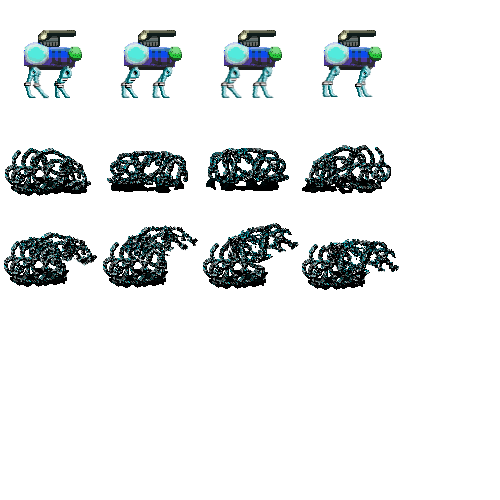
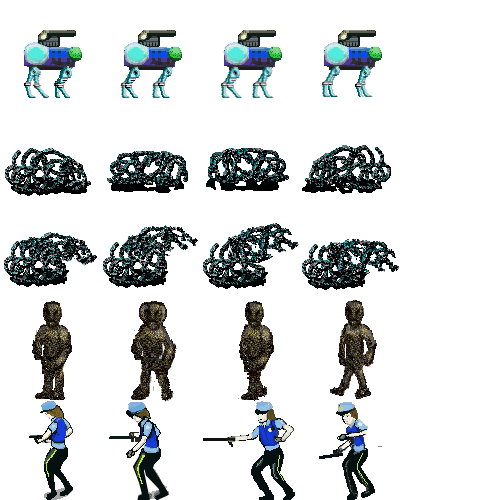
enemy and fire ball animations

diff --git a/entityImageHelper.go b/entityImageHelper.go
@@ -1,10 +1,192 @@
 package main
 
-import "github.com/hajimehoshi/ebiten/v2"
+import (
+	"fmt"
+	"log"
+	"path"
+
+	"github.com/hajimehoshi/ebiten/v2"
+	"github.com/hajimehoshi/ebiten/v2/ebitenutil"
+)
 
 type EntityManagerImageCollections struct {
-	jackieImages []*ebiten.Image
-	dogImages    []*ebiten.Image
-	blobImages   []*ebiten.Image
-	golemImages  []*ebiten.Image
+	jackieImages  []*ebiten.Image
+	jackieImagesA []*ebiten.Image
+	jackieImagesS []*ebiten.Image
+	dogImages     []*ebiten.Image
+	dogImagesA    []*ebiten.Image
+	blobImages    []*ebiten.Image
+	blobImagesA   []*ebiten.Image
+	golemImages   []*ebiten.Image
+	golemImagesA  []*ebiten.Image
+}
+
+func (em *EntityManager) initEntityImages() error {
+	var err error
+	// jackie
+	em.jackieImages, err = getForwardAndReverseSpriteRowFromFile(IMAGES_JACKIE, 1)
+	em.jackieImagesA, err = getForwardAndReverseSpriteRowFromFile(IMAGES_JACKIE, 2)
+	em.jackieImagesS = grabImagesRowToListFromFilename(IMAGES_JACKIE, 100, 3, 2)
+	fmt.Println("Jackie images", len(em.jackieImages))
+	// robo dog
+	em.dogImages, err = getForwardAndReverseSpriteRowFromFile(IMAGES_MONSTER, 0)
+	em.dogImagesA, err = getForwardAndReverseSpriteRowFromFile(IMAGES_MONSTER, 0)
+
+	// worm blob
+
+	em.blobImages, err = getForwardAndReverseSpriteRowFromFile(IMAGES_MONSTER, 1)
+	em.blobImagesA, err = getForwardAndReverseSpriteRowFromFile(IMAGES_MONSTER, 2)
+
+	// worm blob
+
+	em.golemImages, err = getForwardAndReverseSpriteRowFromFile(IMAGES_MONSTER, 3)
+	em.golemImagesA, err = getForwardAndReverseSpriteRowFromFile(IMAGES_MONSTER, 3)
+
+	return err
+
+}
+
+func (em *EntityManager) updateFrame_0(ent *Entity) {
+	rightIndexStart := 1 + EN_FRAME_MAX_VAL
+	rightIndexEnd := 1 + EN_FRAME_MAX_VAL*2
+
+	// low values left
+	if ent.direction == 'l' && ent.frame >= EN_FRAME_MAX_VAL {
+		ent.frame = 0
+	} else if ent.direction == 'l' && ent.frame < EN_FRAME_MAX_VAL {
+		ent.frame++
+	} else if ent.direction == 'r' && ent.frame >= rightIndexEnd {
+		ent.frame = rightIndexStart
+	} else if ent.direction == 'r' && ent.frame < rightIndexEnd {
+		ent.frame++
+	}
+
+}
+
+func (em *EntityManager) updateFrame(ent *Entity) {
+
+	// left: 0 1 2 3
+	// right: 4 5 6 7
+
+	var leftRune, rightRune rune
+
+	if ent.kind != 0 {
+		leftRune = 'l'
+		rightRune = 'r'
+	} else {
+		leftRune = 'r'
+		rightRune = 'l'
+	}
+
+	if ent.direction == leftRune {
+		if ent.frame > 2 || ent.velX == 0 {
+			ent.frame = 0
+		} else {
+			ent.frame++
+		}
+	} else if ent.direction == rightRune {
+		if ent.frame > 6 || ent.velX == 0 {
+			ent.frame = 4
+		} else {
+			ent.frame++
+		}
+	} else {
+		//fmt.Println("Ent unknown condition")
+	}
+
+}
+
+func getForwardAndReverseSpriteRowFromFile(filename string, gridStartRow int) ([]*ebiten.Image, error) {
+	tempImagesList := []*ebiten.Image{}
+	imageDir := path.Join(subdir, filename)
+	rawImage, _, err := ebitenutil.NewImageFromFile(imageDir)
+	startYInPixels := gridStartRow * EN_SPRITE_SIZE
+	tempImagesList = append(tempImagesList, grabImagesRowToList(rawImage, EN_SPRITE_SIZE, startYInPixels, EN_SPRITES_PER_ROW)...)
+	//reverse
+	tempImagesList = append(tempImagesList, copyAndReverseListOfImages(tempImagesList)...)
+
+	return tempImagesList, err
+}
+
+func copyAndReverseListOfImages(inputList []*ebiten.Image) []*ebiten.Image {
+	outputList := []*ebiten.Image{}
+	for _, v := range inputList {
+		tempImage := FlipHorizontal(v)
+		outputList = append(outputList, tempImage)
+	}
+	return outputList
+}
+
+func grabImagesRowToList(inputImage *ebiten.Image, imageSize, startYInPixels, amountX int) []*ebiten.Image {
+
+	outputList := []*ebiten.Image{}
+	for i := range amountX {
+		x := i * imageSize
+		y := startYInPixels
+		tempImage := getSubImage(inputImage, x, y, imageSize, imageSize)
+		outputList = append(outputList, tempImage)
+	}
+	return outputList
+}
+
+func grabImagesRowToListFromFilename(filename string, imageSize, gridY, amountX int) []*ebiten.Image {
+	imageDir := path.Join(subdir, filename)
+	rawImage, _, err := ebitenutil.NewImageFromFile(imageDir)
+	outputList := []*ebiten.Image{}
+	for i := range amountX - 1 {
+		x := i * imageSize
+		y := gridY * imageSize
+		tempImage := getSubImage(rawImage, x, y, imageSize, imageSize)
+		outputList = append(outputList, tempImage)
+	}
+	if err != nil {
+		log.Fatal(err)
+	}
+	return outputList
+}
+
+func (em *EntityManager) selectImage(entityKind, state, frame int) *ebiten.Image {
+	var imageList []*ebiten.Image
+	switch entityKind {
+
+	case 0, 4:
+		switch state {
+		case 0:
+			imageList = em.jackieImages
+		case 1:
+			imageList = em.jackieImagesA
+		case 2:
+			imageList = em.jackieImagesS
+
+		}
+	case 1:
+		switch state {
+		case 0:
+			imageList = em.dogImages
+		case 1:
+			imageList = em.dogImagesA
+
+		}
+
+	case 2:
+		switch state {
+		case 0:
+			imageList = em.blobImages
+		case 1:
+			imageList = em.blobImagesA
+
+		}
+	case 3:
+		switch state {
+		case 0:
+			imageList = em.golemImages
+		case 1:
+			imageList = em.golemImagesA
+
+		}
+
+	}
+	//fmt.Println(frame)
+	return imageList[frame]
+
 }

diff --git a/entity.go b/entity.go
@@ -11,35 +11,52 @@ import (
 )
 
 /*
+kinds:
 0 = Jackie (non enemy)
 1 = robodog
 2 = worm blob
 3 = ice golem
 4 = evil jackie
+
+states:
+0 = walk
+1 = attack
+2 = stand
+
+sprite index:
+0 - 3 = left
+3 - 7 = right
 */
 const (
 	FM_MAX_ENTITY_ROOM          = 10
 	IMAGES_IDLE_SHEET           = "jackieD1.png"
 	IMAGES_WALK_SHEET           = "jackieD1.png"
 	IMAGES_ATTACK_SHEET         = "jackieD1.png"
+	IMAGES_JACKIE               = "jackieRS.png"
+	IMAGES_MONSTER              = "enemyWog.png"
 	EN_FILENAME_BASE            = "entity"
 	EN_FILENAME_END             = ".csv"
 	EN_SPRITE_H                 = 100
 	EN_SPRITE_W                 = 100
+	EN_SPRITE_SIZE              = 100
 	EN_CREATE_FILE_IF_NOT_EXIST = true
 	EN_FOLLOW_DIST              = 300
 	EN_ENEMY_SPEED_1            = 2
 	EN_STOP_FOLLOW_DIST         = 100
+	EN_SPRITES_PER_ROW          = 4
+	EN_FRAME_MAX_VAL            = 3
+	EN_FRAME_CHANGE_TICKS       = 30
 )
 
 type EntityManager struct {
-	game          *Game
-	maxEntitys    int
-	entityList    []*Entity
-	images        []*ebiten.Image
-	testRect      *rect
-	assetID       int
-	filename_base string
+	game                 *Game
+	maxEntitys           int
+	entityList           []*Entity
+	images               []*ebiten.Image
+	testRect             *rect
+	assetID              int
+	filename_base        string
+	frameChangeTickCount int
 
 	EntityManagerImageCollections
 }
@@ -60,6 +77,8 @@ type Entity struct {
 	alive      bool
 	onScreen   bool
 	isEnemy    bool
+	frame      int
+	state      int
 }
 
 func NewEntity(kind, startGridX, startGridY int) *Entity {
@@ -73,6 +92,7 @@ func NewEntity(kind, startGridX, startGridY int) *Entity {
 	ent.startGridX = startGridX
 	ent.startGridY = startGridY
 	ent.worldX = worldX
+	ent.direction = 'f'
 	ent.worldY = worldY
 	return ent
 
@@ -90,6 +110,7 @@ func NewEntityManager(game *Game) *EntityManager {
 	fm.filename_base = EN_FILENAME_BASE
 	fm.maxEntitys = FM_MAX_ENTITY_ROOM
 	fm.initImages()
+	fm.initEntityImages()
 	fm.entityList = []*Entity{}
 	//ent.AddPickup(200, 200, 0)
 	//ent.AddPickup(200, 300, 0)
@@ -108,7 +129,8 @@ func (ent *EntityManager) Draw(screen *ebiten.Image) {
 			//fmt.Println("ent draw")
 			screenX := (v.worldX) - worldOffsetX
 			screenY := (v.worldY) - worldOffsetY
-			DrawImageAt(screen, ent.images[v.kind], screenX, screenY)
+			entImage := ent.selectImage(v.kind, v.state, v.frame)
+			DrawImageAt(screen, entImage, screenX, screenY)
 		}
 	}
 
@@ -119,6 +141,19 @@ func (em *EntityManager) Update() {
 	em.checkEntitysTouchedPlayer()
 
 	em.game.activateObject = false
+
+	if em.frameChangeTickCount < EN_FRAME_CHANGE_TICKS {
+		em.frameChangeTickCount++
+	} else {
+		em.frameChangeTickCount = 0
+
+		for _, entity := range em.entityList {
+			if nil != entity && true == entity.alive {
+				em.updateFrame(entity)
+
+			}
+		}
+	}
 
 }
 
@@ -131,11 +166,14 @@ func (entity *Entity) entityFollowPlayer(game *Game) {
 
 	if entity.worldX+EN_STOP_FOLLOW_DIST < pposX {
 		entity.velX = EN_ENEMY_SPEED_1
+		entity.direction = 'l'
 	} else if entity.worldX-EN_STOP_FOLLOW_DIST > pposX {
 		entity.velX = -EN_ENEMY_SPEED_1
+		entity.direction = 'r'
 
 	} else {
 		entity.velX = 0
+		entity.direction = 'f'
 	}
 
 }

diff --git a/projectile.go b/projectile.go
@@ -59,6 +59,7 @@ func (pm *ProjectileManager) addFireball(worldX, worldY int) {
 			v.worldX = worldX
 			v.worldY = worldY
 			reusedSlot = true
+			return
 		}
 	}
 	if !reusedSlot && len(pm.fireballList) < PM_MAX_FIREBALLS {
@@ -153,6 +154,7 @@ func (pm *ProjectileManager) DrawFireBalls(screen *ebiten.Image) {
 		screenY := v.worldY - worldOffsetY
 		DrawImageAt(screen, fbCurrImage, screenX, screenY)
 	}
+	//fmt.Println("FB list len ", len(pm.fireballList))
 }
 
 func (pm *ProjectileManager) Update() {
@@ -162,17 +164,20 @@ func (pm *ProjectileManager) Update() {
 			if v.projectileCollideWall(pm.game) {
 				v.alive = false
 				pm.addFireball(v.worldX, v.worldY)
+				//
 				continue
-			}
-			v.worldX += v.velX
-			v.worldY += v.velY
-			screenX := v.worldX - worldOffsetX
-			screenY := v.worldY - worldOffsetY
-			if screenY < 0 || screenY > pm.game.screenHeight ||
-				screenX < 0 || screenX > pm.game.screenWidth {
-				v.alive = false
+			} else {
+				v.worldX += v.velX
+				v.worldY += v.velY
+				screenX := v.worldX - worldOffsetX
+				screenY := v.worldY - worldOffsetY
+				if screenY < 0 || screenY > pm.game.screenHeight ||
+					screenX < 0 || screenX > pm.game.screenWidth {
+					v.alive = false
 
+				}
 			}
+
 		}
 	}
 
@@ -192,7 +197,7 @@ func (pm *ProjectileManager) AddProjectile() {
 
 	interval := timerNowNano - pm.debounceLastTime
 	if interval > CON_DEBOUNCE_INTERVAL {
-
+		//fmt.Println("ADDPR ", interval)
 		pm.debounceLastTime = timerNowNano
 	} else {
 		return
@@ -212,7 +217,7 @@ func (pm *ProjectileManager) AddProjectile() {
 			startX := pm.game.player.worldX + Xoffset
 			startY := pm.game.player.worldY + (playerHeight / 2)
 			pm.projectileArray[i] = &Projectile{Xvel, 0, startX, startY, true, pm.kind, false}
-
+			return
 			//fmt.Println("Added projectile at index ", i)
 		}
 
